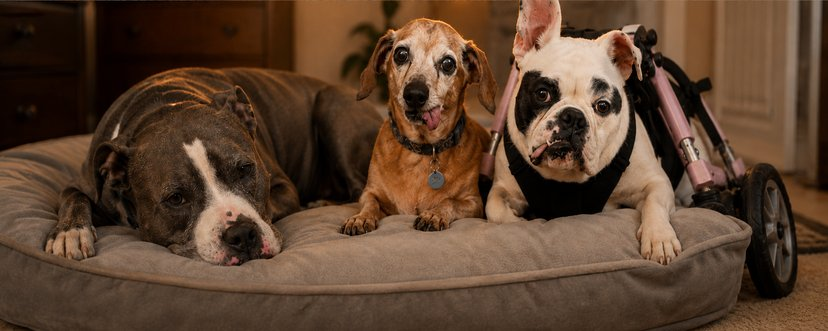
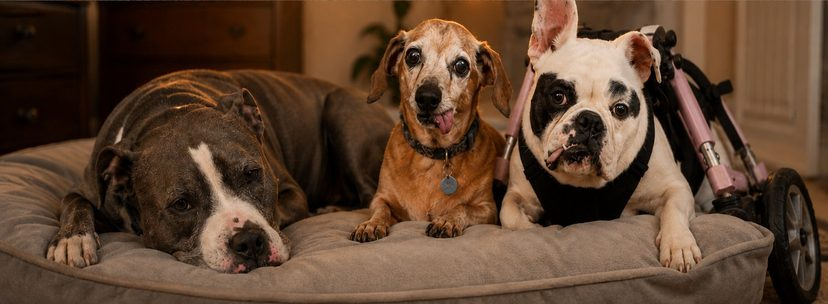
Tighten hero crop and fill Connect With Us buttons in sage
- Crop the landing hero to 1492x548: trim the doorway strip right of the
  wheelchair and the carpet/bed-front band at the bottom so the three dogs
  sit snug in the frame (hero is ~50px shorter on laptop widths)
- Give .hero an explicit width: with an auto width, max-height transferred
  through aspect-ratio into a max-width, leaving a blank cream strip on the
  right on viewports wider than ~1650px
- Anchor the hero image to the top (object-position 50% 0) so height-capped
  wide screens crop bed slack instead of the Frenchie's ear tips
- Regenerate 828/640 srcset variants and update width descriptors
- Switch the contact page Follow on Facebook/Instagram buttons from white
  outline to the sage fill used elsewhere on the site

Claude-Session: https://claude.ai/code/session_012oLyMWiRrA85VHF5L4q3c4

diff --git a/css/styles.css b/css/styles.css
@@ -414,8 +414,12 @@ p { max-width: 65ch; }
 /* Hero */
 .hero {
   position: relative;
+  /* width must be explicit: with an auto width, max-height would transfer
+     through the aspect-ratio into a max-width, leaving a blank strip on
+     viewports wider than 660px * (1492/548). */
+  width: 100%;
   min-height: 420px;
-  aspect-ratio: 5 / 2;
+  aspect-ratio: 1492 / 548;
   max-height: 660px;
   display: flex;
   align-items: center;
@@ -1257,9 +1261,10 @@ p { max-width: 65ch; }
   border: 2px solid rgba(193, 96, 58, 0.35);
 }
 
-/* Hero: shift the framing toward the pit bull on the left so all three
-   dogs read; the shorter hero height (see .hero) keeps the crop gentle. */
-.hero__bg { object-position: 50% 30%; }
+/* Hero: the photo is cropped snug on top and right (ear tips, wheelchair
+   wheel), so when max-height kicks in on wide screens, crop only from the
+   bottom where the bed front leaves slack. */
+.hero__bg { object-position: 50% 0%; }
 .hero__overlay {
   background: linear-gradient(to right, rgba(44,36,22,0.82) 0%, rgba(44,36,22,0.45) 55%, rgba(44,36,22,0.25) 100%);
 }
@@ -1319,7 +1324,7 @@ p { max-width: 65ch; }
     position: static;
     width: 100%;
     height: auto;
-    aspect-ratio: 5 / 2;
+    aspect-ratio: 1492 / 548;
     object-fit: cover;
     display: block;
   }

diff --git a/contact.html b/contact.html
@@ -87,10 +87,10 @@
             <div class="contact-info-card" style="margin-top: var(--space-4);">
               <h3>Connect With Us</h3>
               <p>Follow along on socials for the latest dogs, events, and rescue stories.</p>
-              <a href="https://www.facebook.com/rosalieandfriends" target="_blank" rel="noopener" class="btn btn-outline-dark" style="margin-top: var(--space-3); width: 100%; justify-content: center;">
+              <a href="https://www.facebook.com/rosalieandfriends" target="_blank" rel="noopener" class="btn btn-sage" style="margin-top: var(--space-3); width: 100%; justify-content: center;">
                 Follow on Facebook<span class="sr-only"> (opens in new tab)</span>
               </a>
-              <a href="https://www.instagram.com/rosaliefriends" target="_blank" rel="noopener" class="btn btn-outline-dark" style="margin-top: var(--space-3); width: 100%; justify-content: center;">
+              <a href="https://www.instagram.com/rosaliefriends" target="_blank" rel="noopener" class="btn btn-sage" style="margin-top: var(--space-3); width: 100%; justify-content: center;">
                 Follow on Instagram<span class="sr-only"> (opens in new tab)</span>
               </a>
             </div>

diff --git a/index.html b/index.html
@@ -11,7 +11,7 @@
   <link rel="icon" type="image/png" sizes="32x32" href="/images/favicon-32.png" />
   <link rel="apple-touch-icon" href="/images/apple-touch-icon.png" />
   <link rel="canonical" href="https://rosalieandfriends.org" />
-  <link rel="preload" as="image" imagesrcset="/images/hero-friends-640.jpg 640w, /images/hero-friends-828.jpg 828w, /images/hero-friends.jpg 1536w" imagesizes="100vw" fetchpriority="high" />
+  <link rel="preload" as="image" imagesrcset="/images/hero-friends-640.jpg 640w, /images/hero-friends-828.jpg 828w, /images/hero-friends.jpg 1492w" imagesizes="100vw" fetchpriority="high" />
   <meta property="og:type" content="website" />
   <meta property="og:site_name" content="Rosalie and Friends" />
   <meta property="og:title" content="Rosalie and Friends | Fospice & Fixer Upper Dog Rescue, Pensacola FL" />
@@ -75,7 +75,7 @@
       <div class="hero__overlay"></div>
       <img
         src="/images/hero-friends.jpg"
-        srcset="/images/hero-friends-640.jpg 640w, /images/hero-friends-828.jpg 828w, /images/hero-friends.jpg 1536w"
+        srcset="/images/hero-friends-640.jpg 640w, /images/hero-friends-828.jpg 828w, /images/hero-friends.jpg 1492w"
         sizes="100vw"
         fetchpriority="high"
         alt="Three rescued dogs resting together on a bed — a pit bull mix, a senior dachshund, and a French bulldog in a wheelchair"